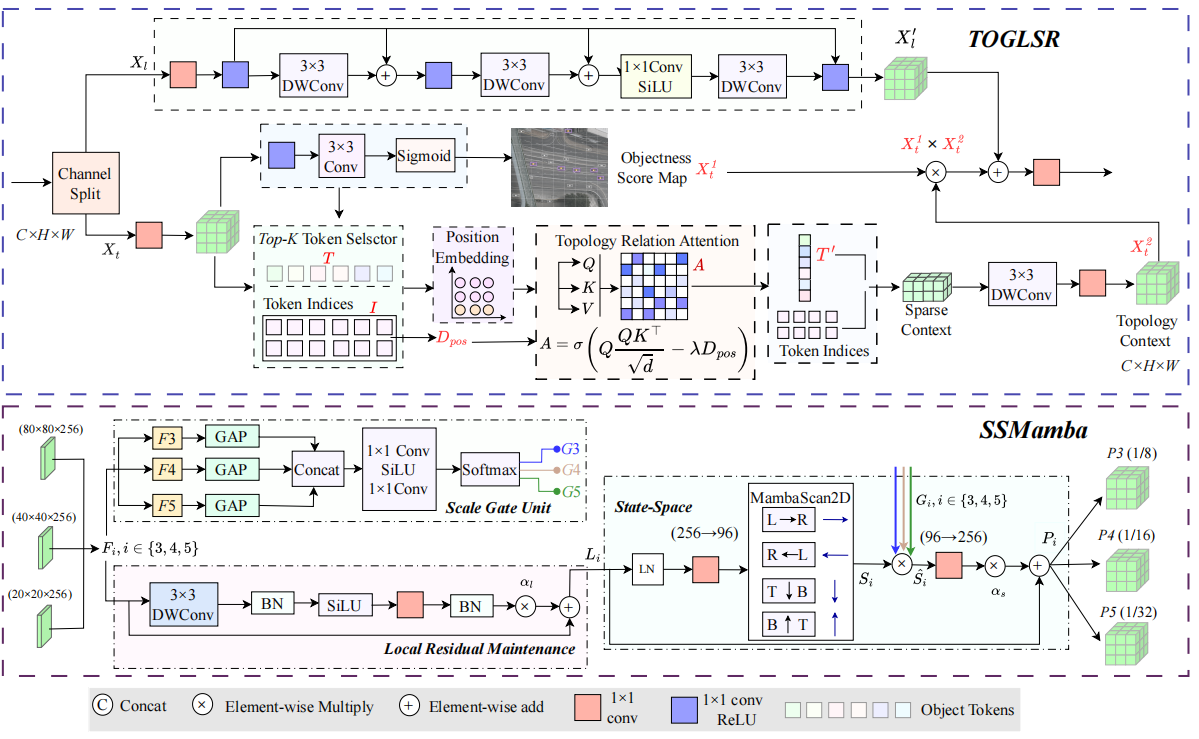
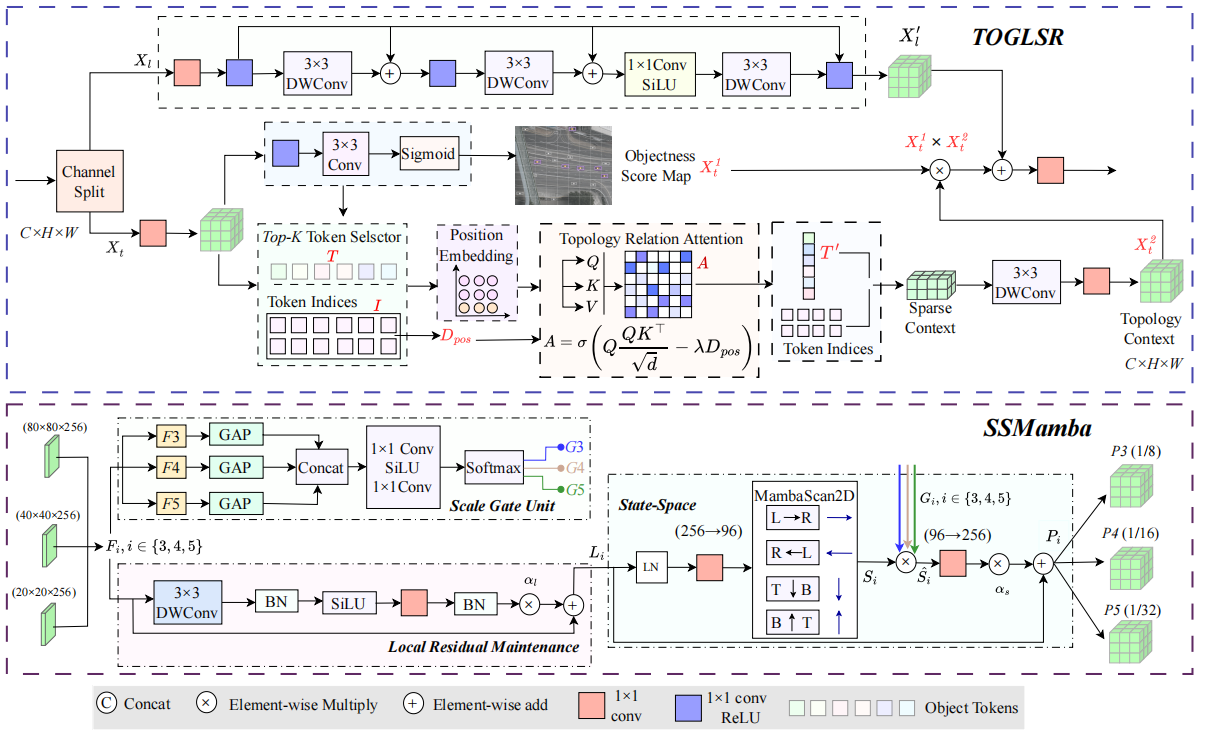
Prepare ML-DETR release assets

diff --git a/README.md b/README.md
@@ -84,8 +84,6 @@ For RT-DETR baseline configs, use `--layers 19 22 25`.
 
 ```text
 ultralytics/cfg/models/ml-detr/ml-detr.yaml
-ultralytics/cfg/models/ml-detr/ml-detr-ecie.yaml
-ultralytics/cfg/models/ml-detr/ml-detr-ecie-toglsr.yaml
 ultralytics/cfg/models/rt-detr/rtdetr-r18.yaml
 ultralytics/cfg/models/rt-detr/rtdetr-r34.yaml
 ultralytics/cfg/models/rt-detr/rtdetr-r50.yaml

diff --git a/ultralytics/cfg/models/README.md b/ultralytics/cfg/models/README.md
@@ -5,8 +5,6 @@ This directory is intentionally split by model family.
 ```text
 ml-detr/
   ml-detr.yaml
-  ml-detr-ecie.yaml
-  ml-detr-ecie-toglsr.yaml
 
 rt-detr/
   rtdetr-r18.yaml